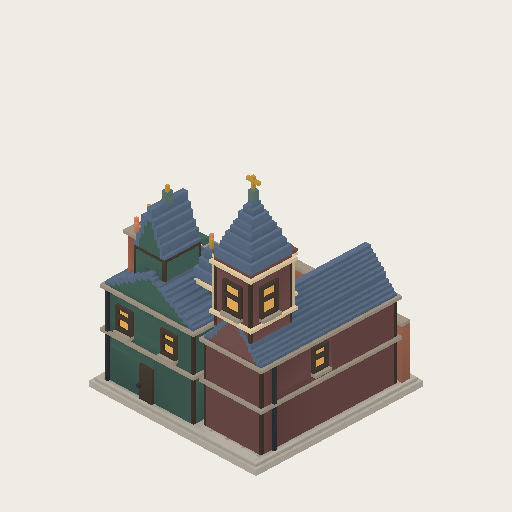
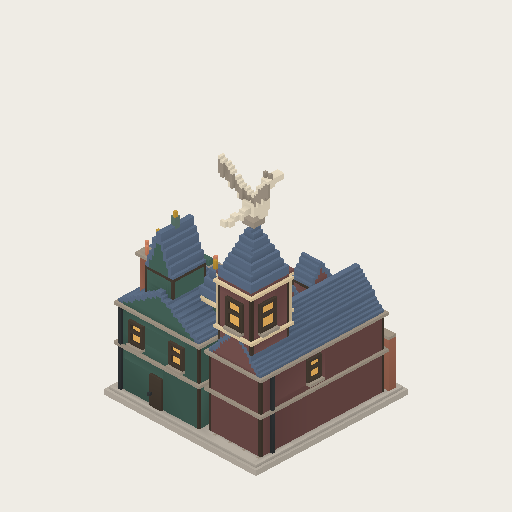
refine(diagon): add roof dormers, lived-in shop details and perched voxel dragon

diff --git a/src/generators/diagonAlley.js b/src/generators/diagonAlley.js
@@ -9,14 +9,16 @@ export function diagonAlleySpec() {
     cap:{type:"gable",heightVoxels:roofHeight,orientation},
     materials:{wall,roof:"slate",trim:"timber",window:"warmWindow"},facade:{enabled:false}
   });
-  const spec=createUrbanMassingSpec({id:DIAGON_ASSET_ID,seed:"diagon-alley-v4",widthCells:2,depthCells:2,
+  const spec=createUrbanMassingSpec({id:DIAGON_ASSET_ID,seed:"diagon-alley-v5",widthCells:2,depthCells:2,
     masses:[shop("wand-shop",-18,-1,22,52,29,"shopWine",12),
       shop("bookshop",12,-19,34,20,31,"shopGreen",10),
       shop("apothecary",21,15,18,20,17,"shopWine",9),
       shop("bookshop-tower",14,-20,12,14,16,"shopGreen",14,31),
+      shop("wine-dormer-front",-9,14,8,9,5,"shopWine",6,32,"east_west"),
+      shop("wine-dormer-middle",-9,0,8,9,5,"shopWine",6,32,"east_west"),
       {...shop("landmark-tower",-18,-19,14,16,28,"shopWine",18,29),
         cap:{type:"spire",heightVoxels:18}} ]});
-  return {...spec,assetId:DIAGON_ASSET_ID,assetRevision:4,footprint:{...spec.footprint,worldWidth:8,worldDepth:8}};
+  return {...spec,assetId:DIAGON_ASSET_ID,assetRevision:5,footprint:{...spec.footprint,worldWidth:8,worldDepth:8}};
 }
 
 export function addDiagonDetails(buffer) {
@@ -81,6 +83,12 @@ export function addDiagonDetails(buffer) {
     p(color,u-2,y+h+2,1,w+4,1,3);
     p("sandstone",u,y+Math.floor(h/2),4,w,1);
   }
+  function flowerbox(p,u,y,w) {
+    p("timber",u,y,3,w,1,2);
+    p("foliage",u+1,y+1,3,w-2,1,2);
+    for(const dx of [1,w-2]) p("blossomPink",u+dx,y+2,4,1,1);
+    p("foliage",u+2,y-1,4,1,1);
+  }
   const wand=facade(-7,-19,"right");
   const books=facade(-4,-9,"front");
   const potions=facade(12,6,"left");
@@ -88,6 +96,10 @@ export function addDiagonDetails(buffer) {
   shopfront(books,"shopGreen",30,"books");
   shopfront(potions,"shopWine",18,"potions");
   for(const u of [3,18]) oriel(wand,u,19,5,9,"shopWine");
+  for(const z of [-4,10]) window(facade(-5,z,"right"),2,33,4,4);
+  flowerbox(wand,3,16,5);
+  flowerbox(books,20,17,6);
+  flowerbox(potions,6,1,5);
   // The two-storey wine shop is the low foreground; a single rear tower
   // carries the landmark silhouette rather than a full extra storey.
   const towerFront=facade(-25,-11,"front"), towerSide=facade(-11,-27,"right");
@@ -99,9 +111,28 @@ export function addDiagonDetails(buffer) {
   }
   for(const x of [-25,-12]) box("sandstone",x,40,-11,1,15,1);
   for(const z of [-27,-12]) box("sandstone",-11,40,z,1,15,1);
-  box("patinaMetal",-19,75,-20,2,3,2);
-  box("gildedMetal",-18,78,-19,1,4,1);
-  box("gildedMetal",-20,80,-19,5,1,1);
+  // Perched pale dragon replaces the tiny weather vane. Coarse silhouette
+  // first: feet, belly, raised neck, long muzzle, paired swept wings and tail.
+  box("stoneShadow",-20,75,-21,5,2,5);
+  for(const x of [-20,-17]) box("limestone",x,77,-18,1,3,3);
+  box("limestone",-20,79,-21,5,4,7);
+  box("limestone",-19,82,-16,3,4,3);
+  box("limestone",-19,85,-14,3,3,3);
+  box("limestone",-19,86,-11,3,2,4);
+  for(const x of [-19,-17]) box("stoneShadow",x,88,-13,1,2,1);
+  box("gildedMetal",-16,87,-12,1,1,1);
+  for(let i=0;i<9;i++) {
+    box("limestone",-19+Math.floor(i/4),80-Math.floor(i/3),-22-i,2,2,1);
+  }
+  for(const sign of [-1,1]) for(let i=1;i<=10;i++) {
+    const x=-18+sign*i;
+    const y=81+Math.floor(i*.9);
+    const top=83+Math.ceil(i*1.2);
+    const z=-20-Math.floor(i/3);
+    box("stoneShadow",x,y,z,1,Math.max(1,top-y),1);
+    box("limestone",x,top,z,1,1,2);
+    if(i===4||i===7) box("limestone",x,y-1,z,1,2,1);
+  }
   const tower=facade(8,-13,"front");window(tower,3,36,5,9);
   box("shopGreen",7,32,-13,14,2,2);box("shopGreen",7,46,-13,14,2,2);
   // A tiny copper finial tops the disproportionately tall bookshop roof.
@@ -162,12 +193,18 @@ export function addDiagonDetails(buffer) {
   box("timber",25,1,-7,4,3,2);box("brickRed",26,4,-7,1,2,2);
   box("shopGreen",25,1,3,1,7,1);box("timber",24,3,3,4,5,1);
   box("sandstone",25,4,4,2,3,1);
+  // A lived-in corner: parcel crate, stock barrel and a folded shop awning.
+  box("timber",26,1,7,3,4,3);box("iron",26,2,7,3,1,3);
+  box("soil",26,5,7,3,1,3);
+  box("timber",23,1,-7,2,2,2);box("sandstone",23,3,-7,2,1,2);
+  books("shopGreen",1,12,2,7,1,4);
+  for(const u of [2,5]) books("sandstone",u,12,2,1,1,4);
 }
 
 export function createDiagonAlley({cellWorldSize=4,nightLighting=0}={}) {
   const root=createVoxelMassingLab({spec:diagonAlleySpec(),renderStrategy:"greedy",nightLighting,voxelDetailPass:addDiagonDetails});
   root.name="DiagonAlley";root.scale.setScalar(cellWorldSize/4);
-  root.userData={...root.userData,assetId:DIAGON_ASSET_ID,assetRevision:4,representation:"special-landmark-voxel",
+  root.userData={...root.userData,assetId:DIAGON_ASSET_ID,assetRevision:5,representation:"special-landmark-voxel",
     sphereProjectionRoot:true,footprint:"2x2",entrance:"north",authoredParcelSize:8,voxelSize:.125};
   return root;
 }

diff --git a/test/diagonAlley.test.js b/test/diagonAlley.test.js
@@ -15,6 +15,7 @@ test("alley remains on the shared voxel grid and within its parcel in all orient
   assert.equal(tower.cap.type,"spire");
   assert.ok(tower.baseYVoxels+tower.heightVoxels+tower.cap.heightVoxels>70);
   assert.ok(!masses.some(m=>m.id==="wand-dormer"));
+  assert.equal(masses.filter(m=>m.id.startsWith("wine-dormer-")).length,2);
   const model=createDiagonAlley();let triangles=0;
   model.traverse(m=>{if(!m.isMesh)return;
     triangles+=(m.geometry.index?.count??m.geometry.attributes.position.count)/3;
@@ -43,6 +44,8 @@ test("partly opening brick wall retains a narrow slit and a clear L-shaped inter
     assert.equal(buffer.getMaterialAt(-4,7,30),"brickRed","opening has displaced brick ends");
     assert.equal(buffer.getMaterialAt(-15,22,24),"shopWine");
     assert.equal(buffer.getMaterialAt(12,25,-10),"shopGreen");
+    assert.equal(buffer.getMaterialAt(-19,86,-9),"limestone","dragon has a long muzzle");
+    for(const x of [-28,-8]) assert.equal(buffer.getMaterialAt(x,95,-23),"limestone","dragon wing tips rise above the head");
   }});disposeBuildingObject(model);
 });
 

diff --git a/docs/visual-development/diagon-alley-001/README.md b/docs/visual-development/diagon-alley-001/README.md
@@ -1,10 +1,14 @@
-# 斜角巷 · 2×2 体素商业街（第四版）
+# 斜角巷 · 2×2 体素商业街（第五版）
 
 两层魔杖店、带高阁楼的书店、低矮药剂店夹出一条 L 形内部巷道，魔杖店后部增加独立高塔体量，形成地标。入口朝 +Z，地块为 8×8 世界单位。临街砖墙定格在正在打开的状态：不规则窄缝、前后错动砖端，保留隐蔽感，不含动画。巷道先向里再右转，保持第二版收窄后的布局。
 
 延续第三版整栋酒红、墨绿配色和凸窗装饰。第四版移除酒红主楼的悬挑第三层与大老虎窗，将主体降至两层，后部新增高塔：细长双面凸窗、分层檐口、陡尖顶及金属风向标。墨绿店铺的小塔作为陪衬，形成前低后高的主次关系。
 
+第五版为酒红主楼增加两扇小老虎窗，在内巷增加三处花箱、折叠遮棚、货桶与包裹。塔顶风向标替换为浅石色飞龙雕塑，采用上扬双翼、长颈吻部与尾巴，保持整数体素。512 图可辨翼形与头颈，但爪、鳞片等细节不追求；属于小尺度轮廓试作，非精细生物模型。
+
 ![正面](front.png)
+
+![512 尺度](front-512.png)
 
 ![俯视](top.png)
 
@@ -15,7 +19,7 @@
 - 整栋酒红、墨绿墙面，旧红砖入口，共用蓝灰板岩屋顶和暖琥珀窗光；浅砂色仅作窄饰边，不作大面积墙底。
 - 新增 `shopGreen`、`shopWine` 哑光漆木材质，用于底层店面和吊牌；使用既有 painted 表面着色，非金属、非自发光。
 - `src/generators/diagonAlley.js` 是固定资产源，复用 UrbanMassingSpec、VoxelInstanceBuffer 与 greedy meshing；所有面位于 0.125 体素网格。
-- 7762 三角形；已有/新建 2×2 斜角巷、放置预览、CPU 可视化共用工厂。非 2×2 历史记录保留旧路径。
+- 9192 三角形；已有/新建 2×2 斜角巷、放置预览、CPU 可视化共用工厂。非 2×2 历史记录保留旧路径。
 - 不改变卡牌遮蔽效果、成本或其他玩法。巷道为资产内部视觉空间，不写入城市道路网络。
 - CPU 预览采用简化日光，不完整代表游戏内 AO、动态阴影和夜间发光。
 
